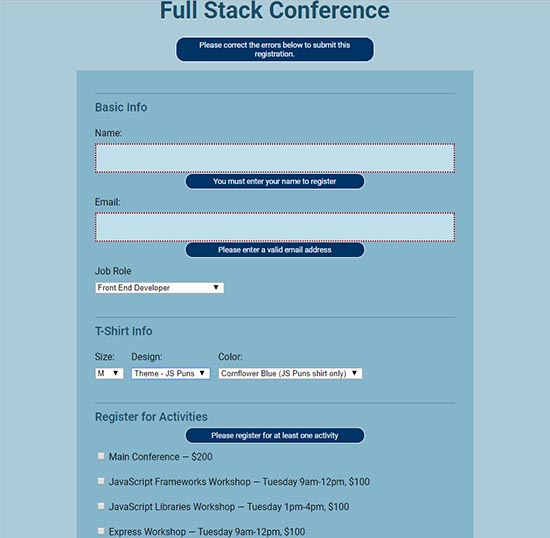
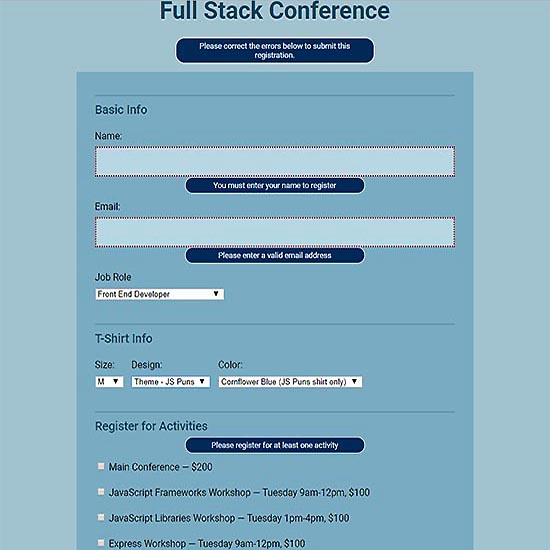
Inital css additions

diff --git a/public/css/style.css b/public/css/style.css
@@ -169,3 +169,46 @@ img.error {
   padding-top: 2rem;
   text-align: left;
 }
+
+/* Added styles */
+h1 {
+  font-family: 'Patua One', cursive;
+  color: #555;
+}
+
+p.lead {
+  font-family: "Roboto", sans-serif;
+  font-size: 150%;
+}
+.portfolio-me p {
+  color: #f3f0f0;
+  font-family: "Roboto";
+}
+
+.portfolio-me a {
+  color: #444;
+}
+
+.off-canvas-content {
+  /* background-color: #e6e2e2; */
+}
+
+.position-left {
+  background-color: #7c7c7f;
+  color: #fff;
+}
+.cell h5 {
+  font-family: 'Patua One', cursive;
+  color: #fff;
+  font-size: 1.1rem;
+  text-align: center;
+}
+
+.cell a h5 {
+  color: #868484;
+}
+.cell img:hover {
+    background: rgba(255, 255, 255, 1);
+    box-shadow: 3px 3px 10px #555;
+    transition: ease-in .4s;
+}
